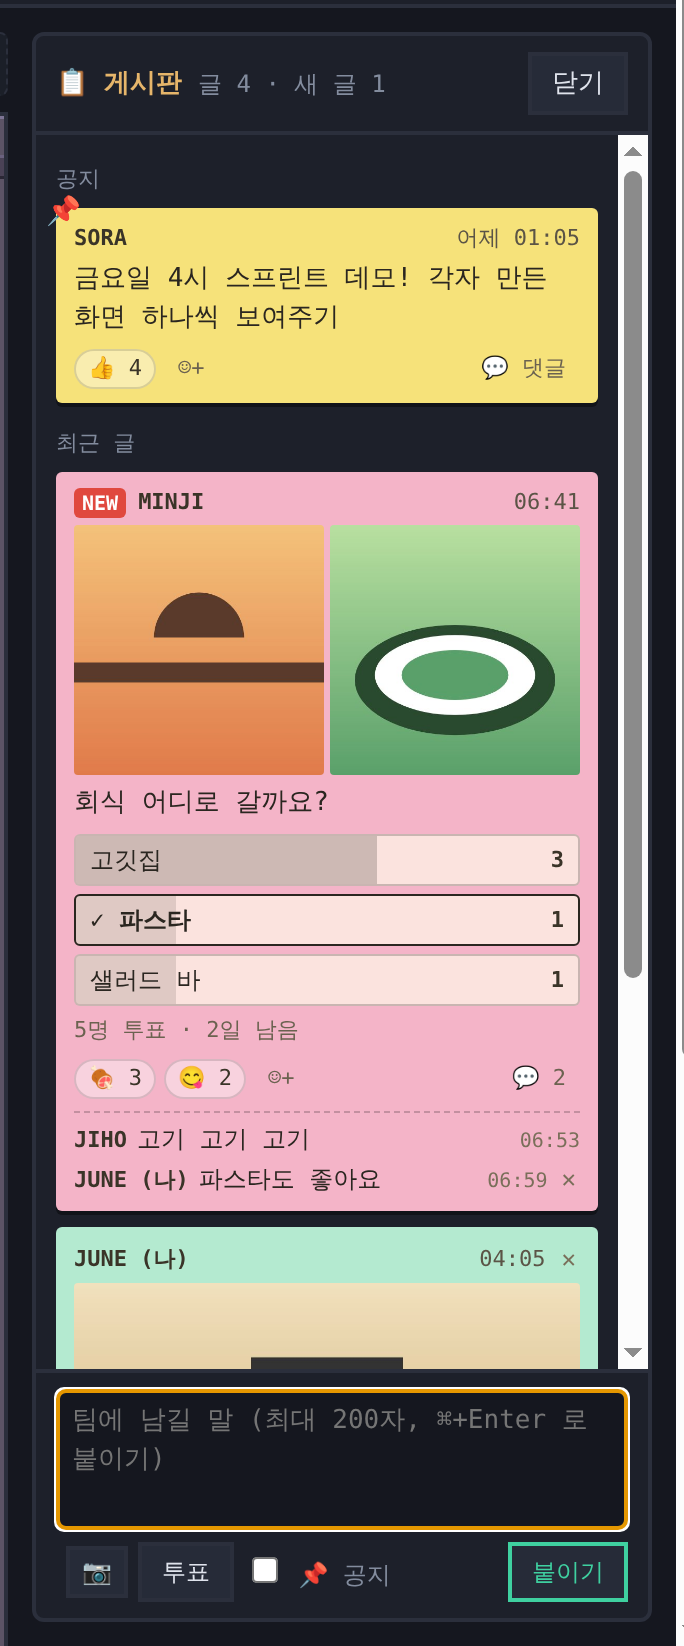
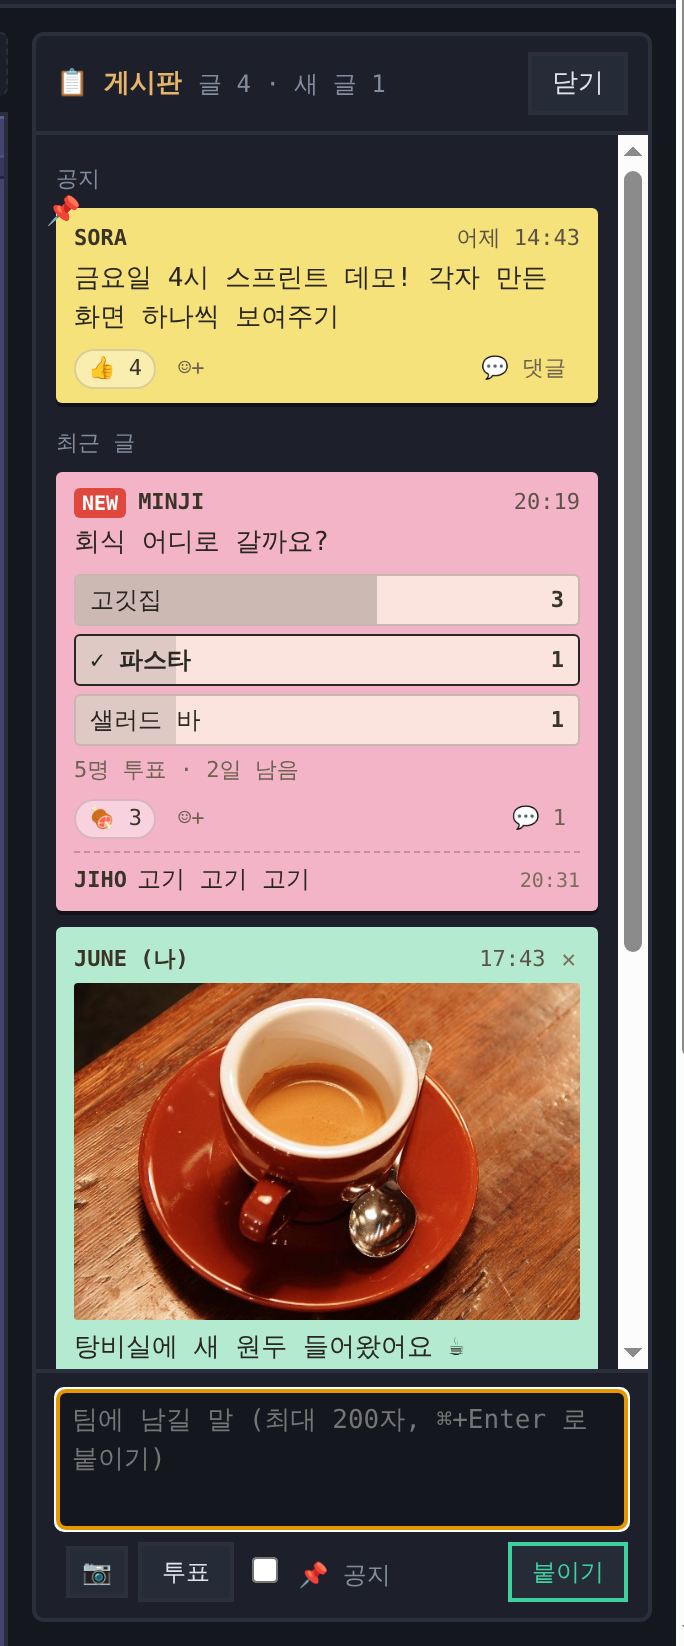
홈페이지 업데이트

diff --git a/docs/index.html b/docs/index.html
@@ -37,7 +37,8 @@ a{color:inherit;text-decoration:none}
 .hb:hover{border-color:var(--muted)}
 .hb svg{width:12px;height:12px;shape-rendering:crispEdges}
 .hb.go{background:var(--work);border-color:var(--work);color:#15171f;font-weight:700}
-@media (max-width:720px){.hb .t{display:none}.hb.go .t{display:inline}.brand{font-size:14px}}@media (max-width:420px){.hb:not(.go){display:none}}
+@media (max-width:720px){.hb .t{display:none}.hb.go .t{display:inline}.brand{font-size:14px}}@media (max-width:420px){.hb:not(.go):not(.lang){display:none}}
+.hb.lang{cursor:pointer;min-width:44px;justify-content:center}
 
 /* 픽셀 버튼 */
 .btn{display:inline-block;position:relative;font:700 18px var(--font);padding:14px 26px;background:var(--work);color:#15171f;
@@ -130,6 +131,28 @@ a{color:inherit;text-decoration:none}
 .panel .foot{margin:16px 0 0;font-size:13px;color:var(--muted)}
 @media (max-width:560px){.seen{grid-template-columns:1fr}}
 
+/* 설치하면 끝 */
+.how{display:grid;grid-template-columns:repeat(3,minmax(0,1fr));gap:18px;margin:56px auto 0}
+.how div{background:var(--panel);border:2px solid var(--line);padding:16px 18px;box-shadow:6px 6px 0 rgba(0,0,0,.3);font-size:15px}
+.how b{display:inline-flex;align-items:center;justify-content:center;width:24px;height:24px;background:var(--work);color:#15171f;margin-right:10px;font-weight:700}
+.how-sub{text-align:center;color:var(--muted);font-size:14px;margin:16px 0 0}
+@media (max-width:820px){.how{grid-template-columns:1fr}}
+.fx{max-width:620px;display:grid;grid-template-columns:repeat(3,minmax(0,1fr));gap:16px;margin-top:28px;align-items:center}
+.fx .mon{padding:4px}
+.fx-cap{margin:12px 0 0;font-size:14px;color:#e9e1d3;text-shadow:1px 1px 0 rgba(0,0,0,.4)}
+.meetg{display:grid;grid-template-columns:1.6fr 1fr;gap:36px;align-items:center}
+@media (max-width:820px){.meetg{grid-template-columns:1fr;gap:20px}}
+
+.grow{display:grid;grid-template-columns:1fr auto 1fr;gap:18px;align-items:center}
+.grow .arrow{font:700 28px var(--font);color:var(--work);text-shadow:2px 2px 0 rgba(0,0,0,.35)}
+.grow-can{max-width:720px;margin:28px auto 0}
+@media (max-width:820px){.grow{grid-template-columns:1fr}.grow .arrow{transform:rotate(90deg);justify-self:center}}
+
+.can[hidden]{display:none}
+.feat.wide{grid-template-columns:1fr;gap:24px}
+.feat.wide .can{grid-template-columns:1fr 1fr}
+@media (max-width:820px){.feat.wide .can{grid-template-columns:1fr}}
+
 /* 포스트잇 */
 .note{display:inline-block;background:#f6e27a;color:#3a3218;padding:14px 18px 16px;font:700 15px var(--font);transform:rotate(-2deg);box-shadow:4px 4px 0 rgba(0,0,0,.3);position:relative}
 .note::before{content:"";position:absolute;top:-6px;left:50%;width:12px;height:12px;margin-left:-6px;background:#e2574c;box-shadow:0 0 0 2px #7a3128 inset}
@@ -160,6 +183,7 @@ footer .wrap{display:flex;justify-content:space-between;gap:16px;flex-wrap:wrap}
     <a class="hb" href="#team"><svg viewBox="0 0 9 9"><path fill="currentColor" d="M1 0h3v3H1zM5 0h3v3H5zM0 4h5v5H0zM5 4h4v5H5z"/></svg><span class="t">Team</span></a>
     <a class="hb" href="#meeting"><svg viewBox="0 0 9 9"><path fill="currentColor" d="M0 0h9v6H0zM4 6h1v2H4zM2 8h5v1H2z"/></svg><span class="t">Meeting</span></a>
     <a class="hb" href="#privacy"><svg viewBox="0 0 9 9"><path fill="currentColor" d="M2 0h5v1H2zM1 1h1v3H1zM7 1h1v3H7zM0 4h9v5H0z"/></svg><span class="t">Privacy</span></a>
+    <button class="hb lang" id="lang" type="button" aria-label="View in English">EN</button>
     <a class="hb go" href="#download"><svg viewBox="0 0 9 9"><path fill="currentColor" d="M4 0h1v5H4zM2 3h1v1H2zM6 3h1v1H6zM3 4h1v1H3zM5 4h1v1H5zM0 7h9v2H0z"/></svg><span class="t">Download</span></a>
   </div>
 </header>
@@ -179,6 +203,15 @@ footer .wrap{display:flex;justify-content:space-between;gap:16px;flex-wrap:wrap}
   </div>
 </div>
 
+<div class="wrap">
+  <div class="how">
+    <div><b>1</b><span>내려받아 열기</span></div>
+    <div><b>2</b><span>내 Claude Code · Codex 세션이 바로 책상에</span></div>
+    <div><b>3</b><span>방장이 사무실을 만들고 참가자를 부르면 한 사무실</span></div>
+  </div>
+  <p class="how-sub">설정 없음 · API 키 없음 · 추가 비용 없음</p>
+</div>
+
 <div style="height:64px"></div>
 
 <section class="room" id="desks">
@@ -187,11 +220,8 @@ footer .wrap{display:flex;justify-content:space-between;gap:16px;flex-wrap:wrap}
     <div class="h2">책상만 보면 세션 상태가 보여요</div>
     <div class="grid g3 sts">
       <div class="st"><div class="mon"><img src="img/st-working.png" alt="작업 중" loading="lazy"></div><div class="nm" style="--c:var(--work)">작업 중</div><p>바쁠수록 불이 커져요</p></div>
-      <div class="st"><div class="mon"><img src="img/st-waiting.png" alt="답변 대기" loading="lazy"></div><div class="nm" style="--c:var(--wait)">답변 대기</div><p>물어볼 게 있으면 ? 가 떠요</p></div>
+      <div class="st"><div class="mon"><img src="img/st-waiting.png" alt="답변 대기" loading="lazy"></div><div class="nm" style="--c:var(--wait)">답변 대기</div><p>? 가 뜨고 맥 알림이 와요</p></div>
       <div class="st"><div class="mon"><img src="img/st-stalled.png" alt="멈춤" loading="lazy"></div><div class="nm" style="--c:var(--stall)">멈춤</div><p>오래 멈추면 이름표 앞 네모가 빨개져요</p></div>
-      <div class="st"><div class="mon"><img src="img/st-merged.png" alt="PR 머지" loading="lazy"></div><div class="nm" style="--c:var(--work)">PR 머지</div><p>머지되면 폭죽이 터져요</p></div>
-      <div class="st"><div class="mon"><img src="img/st-pass.png" alt="빌드 통과" loading="lazy"></div><div class="nm" style="--c:var(--work)">빌드 통과</div><p>빌드가 통과하면 PASS</p></div>
-      <div class="st"><div class="mon"><img src="img/st-fail.png" alt="빌드 실패" loading="lazy"></div><div class="nm" style="--c:var(--stall)">빌드 실패</div><p>깨지면 연기가 나요</p></div>
     </div>
 
     <div class="feat">
@@ -202,21 +232,17 @@ footer .wrap{display:flex;justify-content:space-between;gap:16px;flex-wrap:wrap}
           <li>브랜치 · PR · 지금 하는 일을 한눈에</li>
           <li>세션이 띄운 localhost 페이지 바로 열기</li>
           <li>에이전트가 만든 파일 열기 · 폴더에서 보기</li>
-          <li>만든 결과물을 팀에 공개하거나 게시판에 올리기</li>
+          <li>책상 모니터에서 바로 터미널</li>
         </ul>
       </div>
     </div>
 
     <div class="feat rev">
-      <div class="pair">
-        <div class="mon"><img class="zoom" src="img/deco.png" alt="소품을 올린 내 책상" loading="lazy"></div>
-        <div class="mon fit"><img class="zoom" src="img/09.png" alt="소품 가게" loading="lazy"></div>
-      </div>
+      <div class="mon"><img class="zoom" src="img/deco.png" alt="소품을 올린 내 책상" loading="lazy"></div>
       <div>
         <div class="h3">내 책상 꾸미기</div>
         <ul class="can">
-          <li>소품 가게에서 화분 · 램프 · 지구본 같은 소품 사기</li>
-          <li>끌어서 내 책상 위 원하는 자리에 두기</li>
+          <li>소품을 사서 책상 위 원하는 자리에</li>
           <li>꾸민 책상은 팀원들에게도 그대로 보여요</li>
         </ul>
       </div>
@@ -227,10 +253,8 @@ footer .wrap{display:flex;justify-content:space-between;gap:16px;flex-wrap:wrap}
       <div>
         <div class="h3">사무실 게시판</div>
         <ul class="can">
-          <li>공지 · 사진 · 투표를 올리는 팀 게시판</li>
-          <li>댓글과 리액션으로 바로 반응</li>
-          <li>새 글은 사무실 게시판에 숫자로, 맥 알림으로</li>
-          <li>책상의 결과물 링크를 그대로 올려 공유</li>
+          <li>공지 · 사진 · 투표, 댓글과 리액션</li>
+          <li>책상의 결과물을 그대로 올려 공유</li>
         </ul>
       </div>
     </div>
@@ -242,20 +266,20 @@ footer .wrap{display:flex;justify-content:space-between;gap:16px;flex-wrap:wrap}
   <div class="wall"><div class="windows"><i></i><i></i><i></i><i></i></div></div>
   <div class="floor carpet" data-floor="carpet">
     <div class="h2">멀리 있어도 한 사무실</div>
-    <div class="feat">
-      <div class="mon"><img class="zoom" src="img/remote.png" alt="팀별로 나뉜 사무실과 나라별 국기" loading="lazy"></div>
+    <div class="feat wide">
+      <div class="mon"><img class="zoom" src="img/remote.png" alt="팀마다 나뉜 방이 나란히 있는 사무실" loading="lazy"></div>
       <div>
         <div class="h3">팀원의 작업 현황</div>
         <ul class="can">
           <li>다른 도시, 다른 나라에 있어도 팀원 세션이 내 사무실 책상에</li>
-          <li>국기와 달 표시로 그 사람의 현지 시간이 보여요</li>
-          <li>팀이 여럿이면 팀마다 방이 나뉘어요</li>
+          <li>팀마다 방이 나뉘고, 우리 팀 방만 따로 볼 수도</li>
+          <li>사무실 채팅, 회의실 · 탕비실로 부르기</li>
           <li>누가 출근했고 누가 퇴근했는지 맨 위 한 줄로</li>
         </ul>
       </div>
     </div>
     <div class="feat rev">
-      <div class="mon"><img class="zoom" src="img/integr.png" alt="노션 티켓과 Figma 책상" loading="lazy"></div>
+      <div class="pair"><div class="mon"><img class="zoom" src="img/figma.png" alt="Figma 책상" loading="lazy"></div><div class="mon"><img class="zoom" src="img/notion.png" alt="노션 티켓이 올라간 책상" loading="lazy"></div></div>
       <div>
         <div class="h3">Figma · Notion 연동</div>
         <ul class="can">
@@ -271,9 +295,7 @@ footer .wrap{display:flex;justify-content:space-between;gap:16px;flex-wrap:wrap}
         <div class="h3">출퇴근 · 근무 기록</div>
         <ul class="can">
           <li>출근 · 퇴근은 버튼 한 번</li>
-          <li>사람별 첫 출근 · 퇴근 · 총 작업 시간</li>
-          <li>하루 막대로 언제 일했는지 한눈에</li>
-          <li>날짜별 기록과 CSV 저장</li>
+          <li>사람별 출퇴근 · 작업 시간을 날짜별로</li>
         </ul>
       </div>
     </div>
@@ -285,16 +307,55 @@ footer .wrap{display:flex;justify-content:space-between;gap:16px;flex-wrap:wrap}
   <div class="wall"></div>
   <div class="floor meet" data-floor="meet">
     <div class="h2">회의실에 들어가면 바로 회의</div>
+    <div class="meetg"><div>
     <div class="tabs" role="tablist">
       <button role="tab" aria-selected="true" data-img="img/10.png">화상</button>
       <button role="tab" aria-selected="false" data-img="img/11.png">보드</button>
       <button role="tab" aria-selected="false" data-img="img/12.png">플래닝 포커</button>
     </div>
     <div class="mon"><img id="meetimg" class="zoom" src="img/10.png" alt="픽셀 캐릭터 넷이 참여한 화상 회의" loading="lazy"></div>
+    </div>
+      <div>
+      <ul class="can" data-tab="0">
+        <li>회의실에 들어가면 바로 화상 회의</li>
+        <li>화면 공유, 말하는 사람 채팅은 자막으로</li>
+        <li>말을 받아 적고 내 Claude Code · Codex로 요약</li>
+        <li>앱 없는 사람도 링크로 브라우저에서 참여</li>
+      </ul>
+      <ul class="can" data-tab="1" hidden>
+        <li>포스트잇으로 아이디어 모으기</li>
+        <li>끌어서 묶고, 같은 내용은 겹쳐서 정리</li>
+        <li>모두의 화면에 바로 같이 보여요</li>
+      </ul>
+      <ul class="can" data-tab="2" hidden>
+        <li>주제를 올리고 각자 카드 고르기</li>
+        <li>다 고르면 한꺼번에 공개</li>
+        <li>정한 점수는 회의 기록에 남아요</li>
+      </ul>
+      </div>
+    </div>
     <div class="label">MEETING</div>
   </div>
 </section>
 
+
+<section class="room" id="grow">
+  <div class="wall"><div class="windows"><i></i><i></i><i></i><i></i></div></div>
+  <div class="floor carpet" data-floor="carpet">
+    <div class="h2">업적을 달성해 사무실을 더 풍성하게</div>
+    <div class="grow">
+      <div><div class="nm" style="--c:var(--idle)">처음</div><div class="mon"><img class="zoom" src="img/grow-0.png" alt="책상만 있는 처음 사무실" loading="lazy"></div></div>
+      <div class="arrow">▶</div>
+      <div><div class="nm" style="--c:var(--work)">같이 키운 사무실</div><div class="mon"><img class="zoom" src="img/grow-1.png" alt="회의실 · 탕비실 · 게시판 · 고양이가 생긴 사무실" loading="lazy"></div></div>
+    </div>
+    <ul class="can grow-can">
+      <li>처음엔 책상만 있는 빈 사무실</li>
+      <li>업적과 일하며 모은 코인을 사무실 금고에 함께</li>
+      <li>회의실 · 탕비실 · 게시판 · 고양이 · 오락기 게임이 하나씩 열려요</li>
+    </ul>
+    <div class="label">LEVEL UP</div>
+  </div>
+</section>
 
 <section class="room" id="privacy">
   <div class="wall"></div>
@@ -354,6 +415,7 @@ footer .wrap{display:flex;justify-content:space-between;gap:16px;flex-wrap:wrap}
 <script src="js/wood.js"></script>
 <script src="js/zone.js"></script>
 <script src="js/office-draw.js"></script>
+<script src="js/i18n.js"></script>
 <script src="js/live.js"></script>
 <script>
 // 바닥 무늬: 앱 drawCarpet / drawTiles 와 같은 색·방식
@@ -378,6 +440,8 @@ document.querySelectorAll('.tabs button').forEach(function (b) {
   b.addEventListener('click', function () {
     document.querySelectorAll('.tabs button').forEach(function (x) { x.setAttribute('aria-selected', x === b); });
     document.getElementById('meetimg').src = b.dataset.img;
+    var i = [].indexOf.call(b.parentNode.children, b);
+    document.querySelectorAll('ul[data-tab]').forEach(function (u) { u.hidden = u.dataset.tab != i; });
   });
 });
 var lb = document.getElementById('lb');

diff --git a/docs/js/i18n.js b/docs/js/i18n.js
@@ -1,0 +1,147 @@
+'use strict';
+// 한/영 전환 — 한국어 원문을 그대로 키로 쓴다. ?lang=en, 고른 언어 기억, 처음엔 브라우저 언어.
+(function () {
+  const EN = {
+    '팀이 같이 쓰는<br><em>AI 에이전트</em> 사무실': 'A shared office<br>for your <em>AI agents</em>',
+    '내 맥의 Claude Code · Codex 세션이 픽셀 사무실의 사람이 됩니다.': 'Your Claude Code and Codex sessions become people in a pixel office.',
+    '무료 다운로드': 'Download free',
+    'macOS 12+ · Apple 칩': 'macOS 12+ · Apple silicon',
+    '작업 중': 'Working', '답변 대기': 'Waiting', '쉬는 중': 'Resting', '멈춤': 'Stalled',
+    '책상만 보면 세션 상태가 보여요': 'One look at a desk tells you how a session is doing',
+    '바쁠수록 불이 커져요': 'The busier, the bigger the fire',
+    '물어볼 게 있으면 ? 가 떠요': 'A ? pops up when it has a question',
+    '오래 멈추면 이름표 앞 네모가 빨개져요': 'Stuck too long and the square by the name turns red',
+    'PR 머지': 'PR merged', '머지되면 폭죽이 터져요': 'Fireworks when it merges',
+    '빌드 통과': 'Build passed', '빌드가 통과하면 PASS': 'PASS when the build goes green',
+    '빌드 실패': 'Build failed', '깨지면 연기가 나요': 'Smoke when it breaks',
+    '책상을 누르면': 'Click a desk',
+    '브랜치 · PR · 지금 하는 일을 한눈에': 'Branch, PR and what it is doing right now',
+    '세션이 띄운 localhost 페이지 바로 열기': 'Open the localhost pages the session started',
+    '에이전트가 만든 파일 열기 · 폴더에서 보기': 'Open files the agent made, or show them in Finder',
+    '만든 결과물을 팀에 공개하거나 게시판에 올리기': 'Share results with the team or post them to the board',
+    '내 책상 꾸미기': 'Decorate your desk',
+    '소품 가게에서 화분 · 램프 · 지구본 같은 소품 사기': 'Buy plants, lamps, globes and more in the shop',
+    '끌어서 내 책상 위 원하는 자리에 두기': 'Drag them anywhere on your desk',
+    '꾸민 책상은 팀원들에게도 그대로 보여요': 'Your teammates see your desk just as you made it',
+    '사무실 게시판': 'Office board',
+    '공지 · 사진 · 투표를 올리는 팀 게시판': 'A team board for notices, photos and polls',
+    '댓글과 리액션으로 바로 반응': 'Reply with comments and reactions',
+    '새 글은 사무실 게시판에 숫자로, 맥 알림으로': 'New posts show as a count on the board and as Mac notifications',
+    '책상의 결과물 링크를 그대로 올려 공유': 'Post links to desk results straight from the desk',
+    '멀리 있어도 한 사무실': 'Far apart, one office',
+    '팀원의 작업 현황': 'See what your team is doing',
+    '다른 도시, 다른 나라에 있어도 팀원 세션이 내 사무실 책상에': 'Teammates in other cities or countries work at desks in your office',
+    '국기와 달 표시로 그 사람의 현지 시간이 보여요': 'Flags and a moon show each person\'s local time',
+    '팀이 여럿이면 팀마다 방이 나뉘어요': 'Several teams get a room each',
+    '누가 출근했고 누가 퇴근했는지 맨 위 한 줄로': 'Who is in and who has left, in one line at the top',
+    'Figma · Notion 연동': 'Figma and Notion',
+    'Figma에서 작업 중이면 그 옆에 Figma 책상이 생겨요': 'Working in Figma adds a Figma desk next to yours',
+    'Notion 보드의 진행 중 티켓이 내 책상 위에': 'In-progress tickets from your Notion board sit on your desk',
+    '업무 일지의 할 일 진행이 숫자로 보여요': 'Work log to-dos show as a progress count',
+    '출퇴근 · 근무 기록': 'Clock in, clock out, work log',
+    '출근 · 퇴근은 버튼 한 번': 'Clock in and out with one button',
+    '사람별 첫 출근 · 퇴근 · 총 작업 시간': 'First in, last out and total work time per person',
+    '하루 막대로 언제 일했는지 한눈에': 'A day bar shows when people worked',
+    '날짜별 기록과 CSV 저장': 'Records by date, with CSV export',
+    '회의실에 들어가면 바로 회의': 'Walk into the meeting room, start the meeting',
+    '화상': 'Video', '보드': 'Board', '플래닝 포커': 'Planning poker',
+    '내 맥 밖으로 나가는 것': 'What leaves your Mac',
+    '팀에 보이는 것': 'What your team sees',
+    '폴더 이름 · 브랜치': 'Folder name, branch', '대화 내용 · 질문': 'Conversations, questions',
+    '작업 상태 · 도구 · 파일 이름': 'Status, tool, file names', '코드': 'Code',
+    '세션 제목 (끌 수 있음)': 'Session title (can be turned off)', '전체 경로': 'Full paths',
+    '출근 · 퇴근 시각': 'Clock-in and clock-out times', '다른 앱 · 화면': 'Other apps, your screen',
+    '혼자 쓰면 아무것도 나가지 않습니다.': 'Used alone, nothing leaves your Mac.',
+    '곧 나와요 · 1인 사무실': 'Coming soon · Solo office',
+    '쉬는 시간은 탕비실에서': 'Breaks happen in the break room',
+    '오락기': 'Arcade', '크레인': 'Claw machine', '럭키박스': 'Lucky box',
+    '출근하기': 'Clock in',
+    '최신 버전 받기 (.dmg)': 'Get the latest version (.dmg)',
+    'dmg를 열고 앱을 응용 프로그램 폴더로 끌어 놓기': 'Open the dmg and drag the app into Applications',
+    '처음 열 때 “확인되지 않은 개발자” 경고가 뜨면<br>시스템 설정 → 개인정보 보호 및 보안 → <b>그래도 열기</b>':
+      'If the first launch warns about an unidentified developer,<br>go to System Settings → Privacy &amp; Security → <b>Open Anyway</b>',
+    '또는 터미널에서 <code>xattr -cr "/Applications/My Agent Office.app"</code>': 'Or run <code>xattr -cr "/Applications/My Agent Office.app"</code> in Terminal',
+    'My Agent Office · 무료 · macOS': 'My Agent Office · Free · macOS',
+    'GitHub 릴리스': 'GitHub releases',
+    '내려받아 열기': "Download and open",
+    '내 Claude Code · Codex 세션이 바로 책상에': "Your Claude Code and Codex sessions show up at desks right away",
+    '방장이 사무실을 만들고 참가자를 부르면 한 사무실': "The host makes an office, invites members, and you share one office",
+    '설정 없음 · API 키 없음 · 추가 비용 없음': "No setup · No API key · No extra cost",
+    '? 가 뜨고 맥 알림이 와요': "A ? pops up and your Mac notifies you",
+    'PR 머지 · 빌드 통과 · 빌드 실패도 책상에서 터져요': "PR merges, passing builds and broken builds show up at the desk too",
+    '책상 모니터에서 바로 터미널': "A terminal right on the desk monitor",
+    '소품을 사서 책상 위 원하는 자리에': "Buy props and put them anywhere on your desk",
+    '공지 · 사진 · 투표, 댓글과 리액션': "Notices, photos and polls, with comments and reactions",
+    '책상의 결과물을 그대로 올려 공유': "Share results straight from your desk",
+    '사무실 채팅, 회의실 · 탕비실로 부르기': "Office chat, and call people to the meeting room or break room",
+    '사람별 출퇴근 · 작업 시간을 날짜별로': "Clock-in, clock-out and work time per person, by date",
+    '화상 · 화면 공유': "Video and screen sharing",
+    '말을 받아 적고 내 Claude Code · Codex로 요약': "Transcribes the talk and summarizes it with your own Claude Code or Codex",
+    '보드 · 플래닝 포커 · 투표': "Board, planning poker and votes",
+    '앱 없는 사람도 링크로 브라우저에서 참여': "Guests without the app join from a browser link",
+    "노션 티켓이 올라간 책상": "A desk with Notion tickets",
+    "Figma 책상": "A Figma desk",
+    "팀마다 나뉜 방이 나란히 있는 사무실": "An office with a room for each team, side by side",
+    "팀마다 방이 나뉘고, 우리 팀 방만 따로 볼 수도": "Each team gets its own room, and you can view just yours",
+    "회의실에 들어가면 바로 화상 회의": "Walk into the meeting room and the video call starts",
+    "화면 공유, 말하는 사람 채팅은 자막으로": "Screen sharing, with the presenter's chat as captions",
+    "포스트잇으로 아이디어 모으기": "Collect ideas on sticky notes",
+    "끌어서 묶고, 같은 내용은 겹쳐서 정리": "Drag to group, and duplicates stack up",
+    "모두의 화면에 바로 같이 보여요": "Everyone sees the same board live",
+    "주제를 올리고 각자 카드 고르기": "Post a topic and everyone picks a card",
+    "다 고르면 한꺼번에 공개": "Reveal all cards at once",
+    "정한 점수는 회의 기록에 남아요": "Agreed points are saved in the meeting log",
+    "업적을 달성해 사무실을 더 풍성하게": "Earn achievements, grow your office",
+    "처음": "Day one",
+    "같이 키운 사무실": "Grown together",
+    "책상만 있는 처음 사무실": "A new office with only desks",
+    "회의실 · 탕비실 · 게시판 · 고양이가 생긴 사무실": "An office with a meeting room, break room, board and cat",
+    "처음엔 책상만 있는 빈 사무실": "You start with an empty office with just desks",
+    "업적과 일하며 모은 코인을 사무실 금고에 함께": "Coins from achievements and work go into the office safe together",
+    "회의실 · 탕비실 · 게시판 · 고양이 · 오락기 게임이 하나씩 열려요": "Meeting rooms, the break room, the board, the cat and arcade games open one by one",
+    // 그림 설명 (alt · aria-label)
+    '에이전트들이 일하는 픽셀 사무실 (움직이는 그림)': 'A pixel office with agents at work (animated)',
+    '책상 상세 창': 'Desk detail window', '소품을 올린 내 책상': 'A desk with props on it', '소품 가게': 'Prop shop',
+    '팀별로 나뉜 사무실과 나라별 국기': 'An office split by team, with country flags',
+    '노션 티켓과 Figma 책상': 'Notion tickets and a Figma desk', '근무 기록 창': 'Work log window',
+    '픽셀 캐릭터 넷이 참여한 화상 회의': 'A video meeting with four pixel characters',
+    '팀이 같이 쓰는 AI 에이전트 사무실. 내 맥의 Claude Code · Codex 세션이 픽셀 사무실의 사람이 된다.':
+      'A shared office for your AI agents. Your Claude Code and Codex sessions become people in a pixel office.',
+  };
+  const KO = {};
+  const ATTRS = ['alt', 'aria-label'];
+  const els = [];
+  // 글자만 든 요소 (자식 요소가 있어도 통째로 사전에 있으면 바꾼다)
+  for (const el of document.body.querySelectorAll('*')) {
+    if (el.tagName === 'SCRIPT' || el.tagName === 'CANVAS' && !el.getAttribute('aria-label')) continue;
+    const k = el.innerHTML.trim();
+    const hit = EN[k] !== undefined;
+    const attrs = ATTRS.filter((a) => EN[el.getAttribute(a)] !== undefined);
+    if (hit || attrs.length) els.push({ el, html: hit ? k : null, attrs: attrs.map((a) => [a, el.getAttribute(a)]) });
+  }
+  const meta = document.querySelector('meta[name=description]');
+  const btn = document.getElementById('lang');
+  function set(lang) {
+    const en = lang === 'en';
+    for (const x of els) {
+      if (x.html !== null) x.el.innerHTML = en ? EN[x.html] : x.html;
+      for (const [a, ko] of x.attrs) x.el.setAttribute(a, en ? EN[ko] : ko);
+    }
+    if (meta) meta.content = en ? EN[KO.meta || (KO.meta = meta.content)] || meta.content : KO.meta || meta.content;
+    document.documentElement.lang = en ? 'en' : 'ko';
+    if (btn) { btn.textContent = en ? '한국어' : 'EN'; btn.setAttribute('aria-label', en ? '한국어로 보기' : 'View in English'); }
+    window.SITE_LANG = lang;
+    window.dispatchEvent(new Event('sitelang'));
+  }
+  let lang = new URLSearchParams(location.search).get('lang');
+  if (lang !== 'en' && lang !== 'ko') {
+    try { lang = localStorage.getItem('lang'); } catch (e) { lang = null; }
+    if (lang !== 'en' && lang !== 'ko') lang = /^ko\b/i.test(navigator.language || 'ko') ? 'ko' : 'en';
+  }
+  if (lang === 'en') set('en'); else window.SITE_LANG = 'ko';
+  if (btn) btn.addEventListener('click', () => {
+    const next = window.SITE_LANG === 'en' ? 'ko' : 'en';
+    try { localStorage.setItem('lang', next); } catch (e) { /* 저장 못 해도 이번 화면은 바뀐다 */ }
+    set(next);
+  });
+})();
